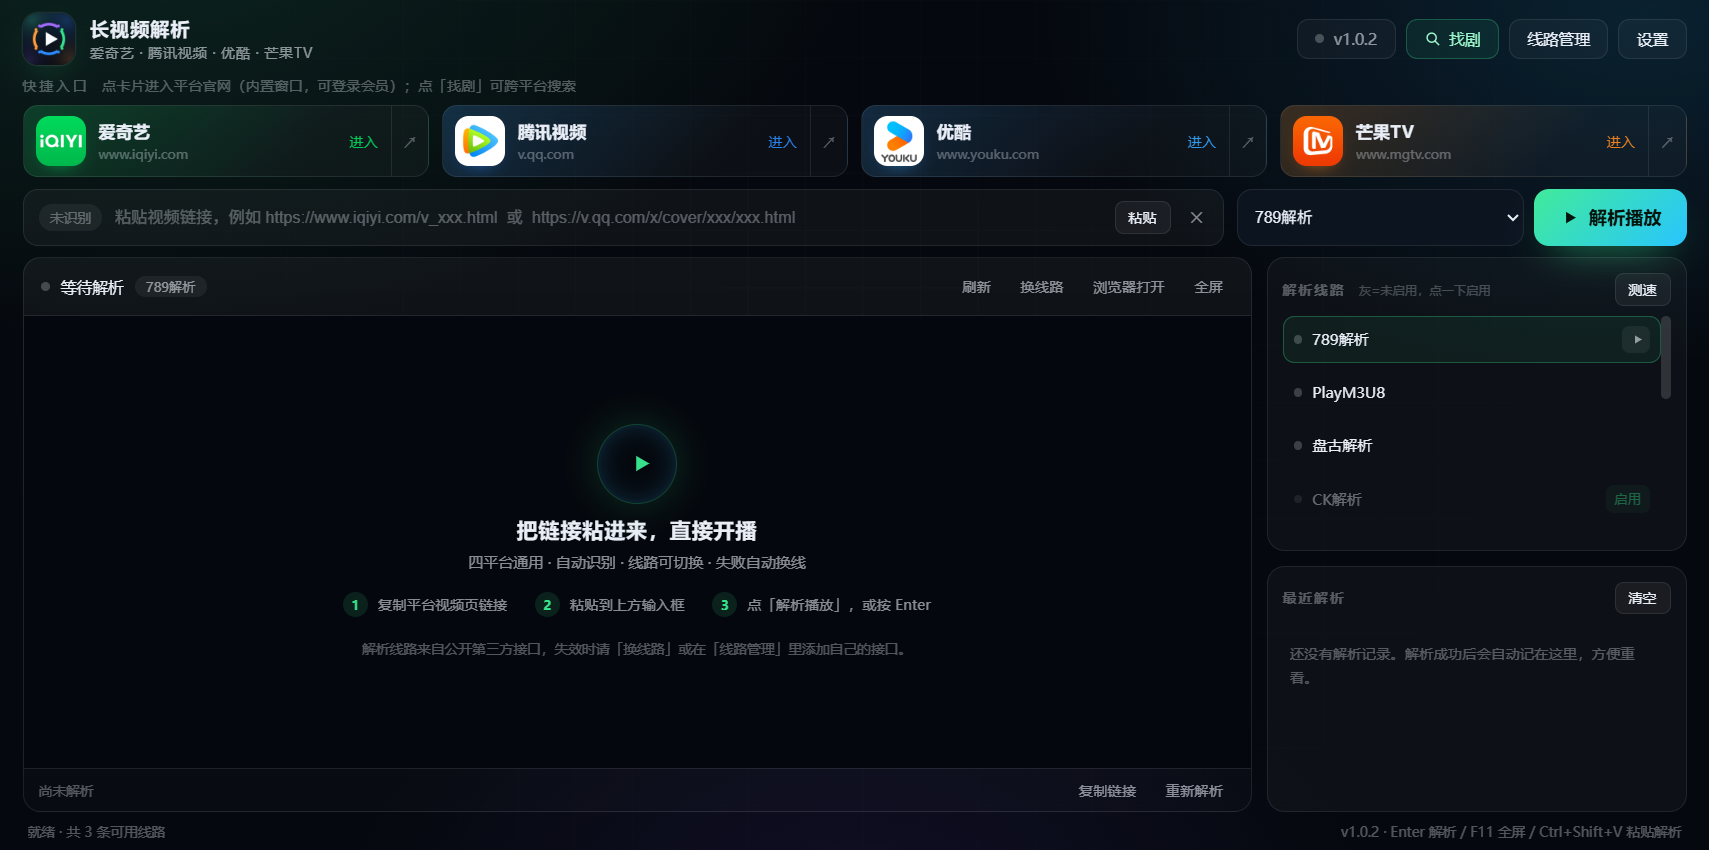
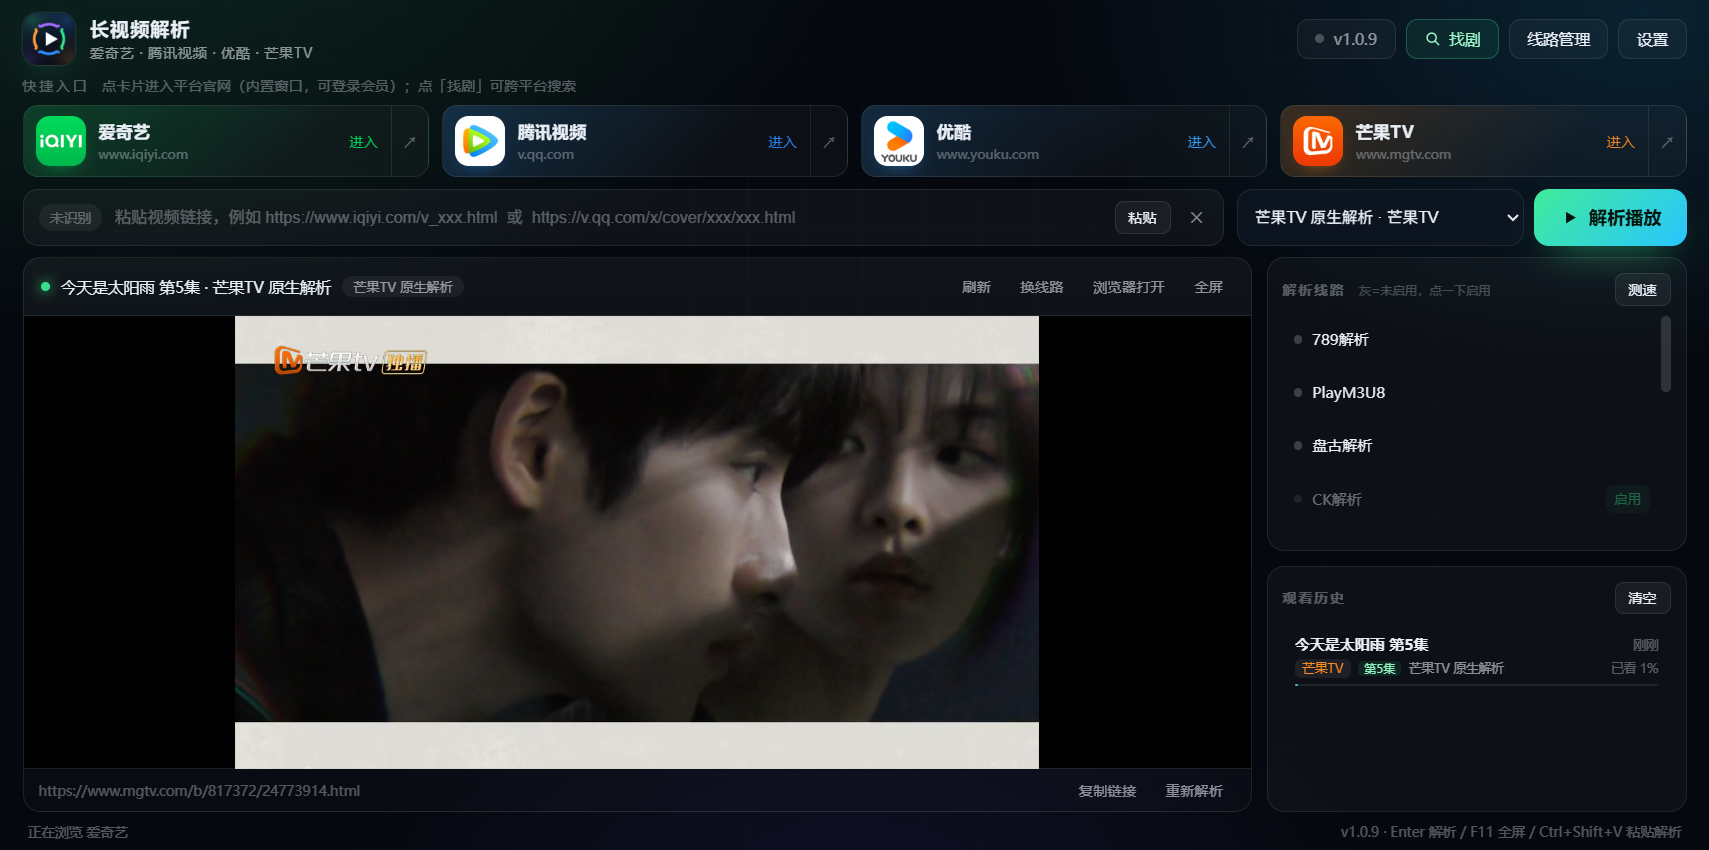
docs: 更新 1.0.9 主界面/观看历史与内置浏览器截图

diff --git a/README.md b/README.md
@@ -6,6 +6,8 @@ Windows 桌面端的视频链接解析播放工具：把 **爱奇艺 / 腾讯视
 
 ![主界面](docs/screenshot-main.png)
 
+![平台网页直接在主窗口内打开](docs/screenshot-browser.png)
+
 ## 功能
 
 - **链接解析直连播放**：粘贴视频页链接 → 自动识别平台 → 解析 → 内嵌播放（页面播放器或 m3u8/mp4 原生播放）。
